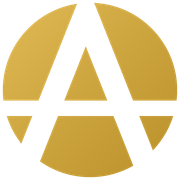
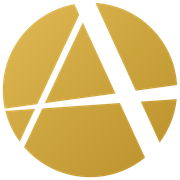
Measure the mark instead of drawing it by eye
The first version of the logo was drawn from looking at the artwork, and it
showed: a wide splayed A with a level crossbar, where the real letterform is
narrow, its bar rises to the right and tapers, and its apex is a virtual point
ABOVE the disc — what you see at the top of the mark is the letter cut off by
the circle, not a point sitting inside it. That last one is why the eyeballed
version read as a chunky symbol rather than a monogram.

The artwork answers the question directly: its alpha channel is a clean hole
where the letter is, so scanning rows and columns recovers the four stroke
edges and the two bar edges, each fitted by least squares over 65–85 samples.
Rasterised back at the original's size, the reconstruction differs from it by
1.94% of pixels, and the difference map shows that is almost entirely the
antialiased edge.

Tracing the outline directly was tried first and abandoned. A colour threshold
caught the gold-leaf texture and produced a ragged edge; reading alpha fixed
the input but the traced polygon still carried pixel noise along boundaries
that are, in the artwork, perfectly straight lines. Fitting the lines gives
exact edges and three quads instead of 176 points.

Changed region(s): [[0.0, 0.0, 0.8056, 0.9167], [0.5556, 0.0833, 1.0, 0.8333], [0.5278, 0.0, 0.5556, 0.0833]]

diff --git a/components/v2/V2Icons.tsx b/components/v2/V2Icons.tsx
@@ -2,23 +2,29 @@ export function V2Icons() {
   return (
     <svg width="0" height="0" style={{ position: "absolute" }} aria-hidden="true">
       <defs>
-        {/* The brand mark, as vector.
-            WordPress holds it as a 765x547 PNG on the public domain, which is
-            both soft at every size the header asks for and one DNS change away
-            from 404. Defined once here and referenced with <use>, so the mask
-            and gradient ids exist exactly once in the document however many
-            times the logo appears. */}
+        {/* The brand mark, measured off the original artwork.
+
+            The letter was not drawn by eye. The source PNG's alpha channel is
+            a clean hole where the A is, so scanning rows and columns gives the
+            four stroke edges and the two bar edges, each fitted by least
+            squares; the result differs from the original by 1.9% of pixels,
+            nearly all of it antialiasing. Three things an eyeballed version
+            got wrong: the A is narrow rather than splayed, its apex is a
+            virtual point ABOVE the disc so the top is the letter cut off by
+            the circle, and the crossbar rises to the right and tapers.
+
+            Defined once here and referenced with <use>, so the mask and
+            gradient ids exist exactly once however often the logo appears. */}
         <linearGradient id="brand-leaf" x1="0" y1="0" x2="1" y2="1">
           <stop offset="0" stopColor="#E0BA55" />
           <stop offset="1" stopColor="#B98F28" />
         </linearGradient>
-        <mask id="brand-cut">
-          <rect width="64" height="64" fill="#fff" />
-          <g stroke="#000" fill="none" strokeLinecap="butt">
-            {/* One polyline, not two strokes meeting: separate strokes leave a
-                notch where they cross, and this letterform's apex is a point. */}
-            <path d="M9 59 L30.5 5 L52 59" strokeWidth="8.5" strokeLinejoin="miter" strokeMiterlimit="8" />
-            <path d="M-2 38.5 H66" strokeWidth="5.5" />
+        <mask id="brand-cut" maskUnits="userSpaceOnUse" x="-10" y="-10" width="84" height="84">
+          <rect x="-10" y="-10" width="84" height="84" fill="#fff" />
+          <g fill="#000">
+            <path d="M34.4 -8L36.96 -8L-0.69 72L-3.15 72Z" />
+            <path d="M22.08 -8L29.79 -8L66.54 72L58.91 72Z" />
+            <path d="M-4 39.42L70 29.26L70 34.75L-4 39.85Z" />
           </g>
         </mask>
         <symbol id="brand-mark" viewBox="0 0 64 64">
